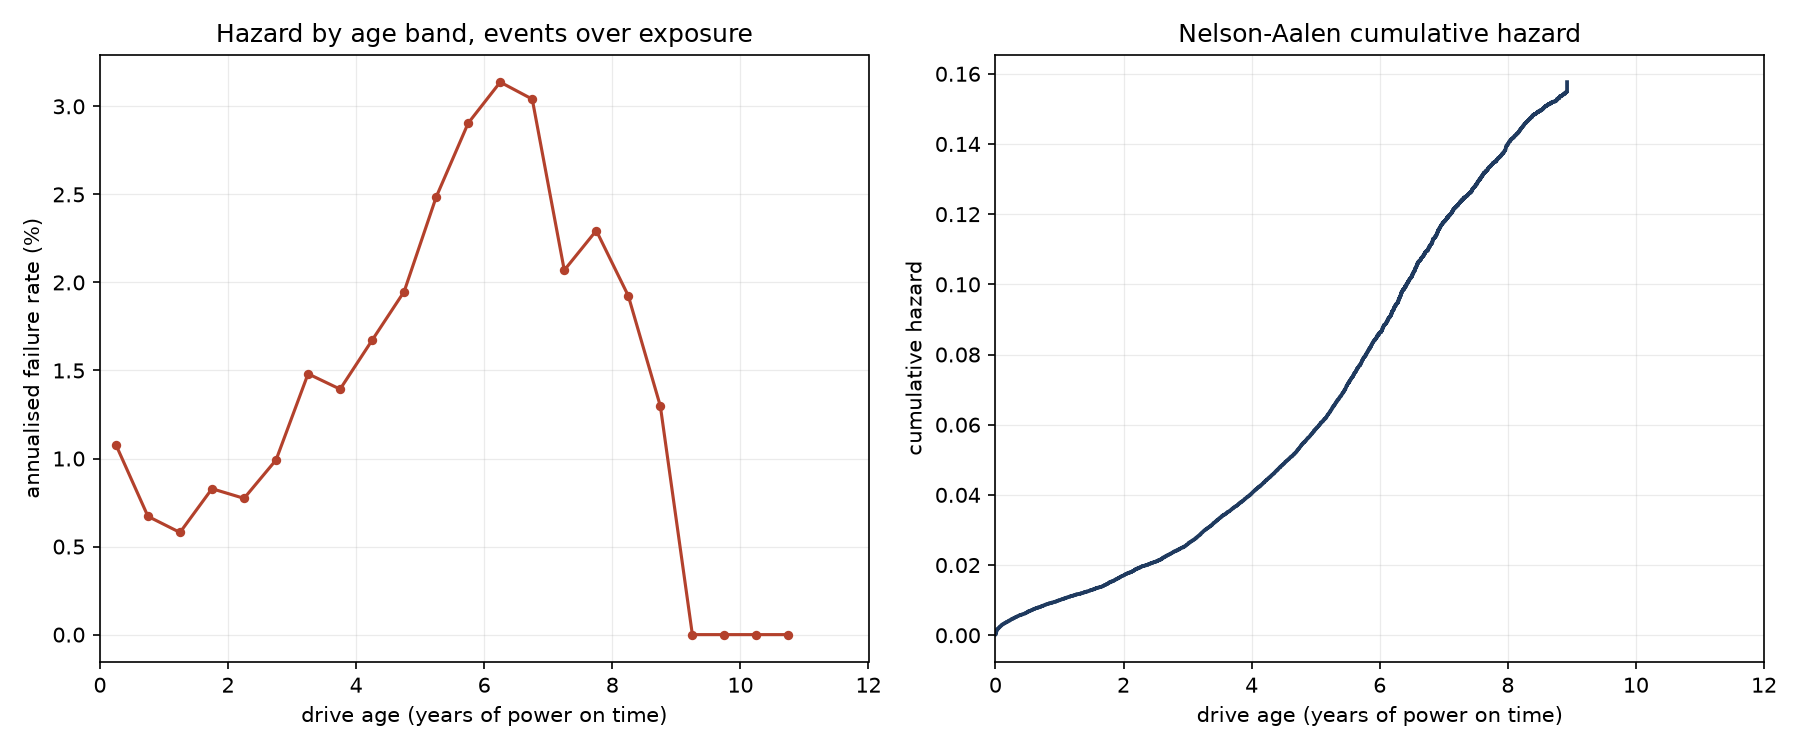
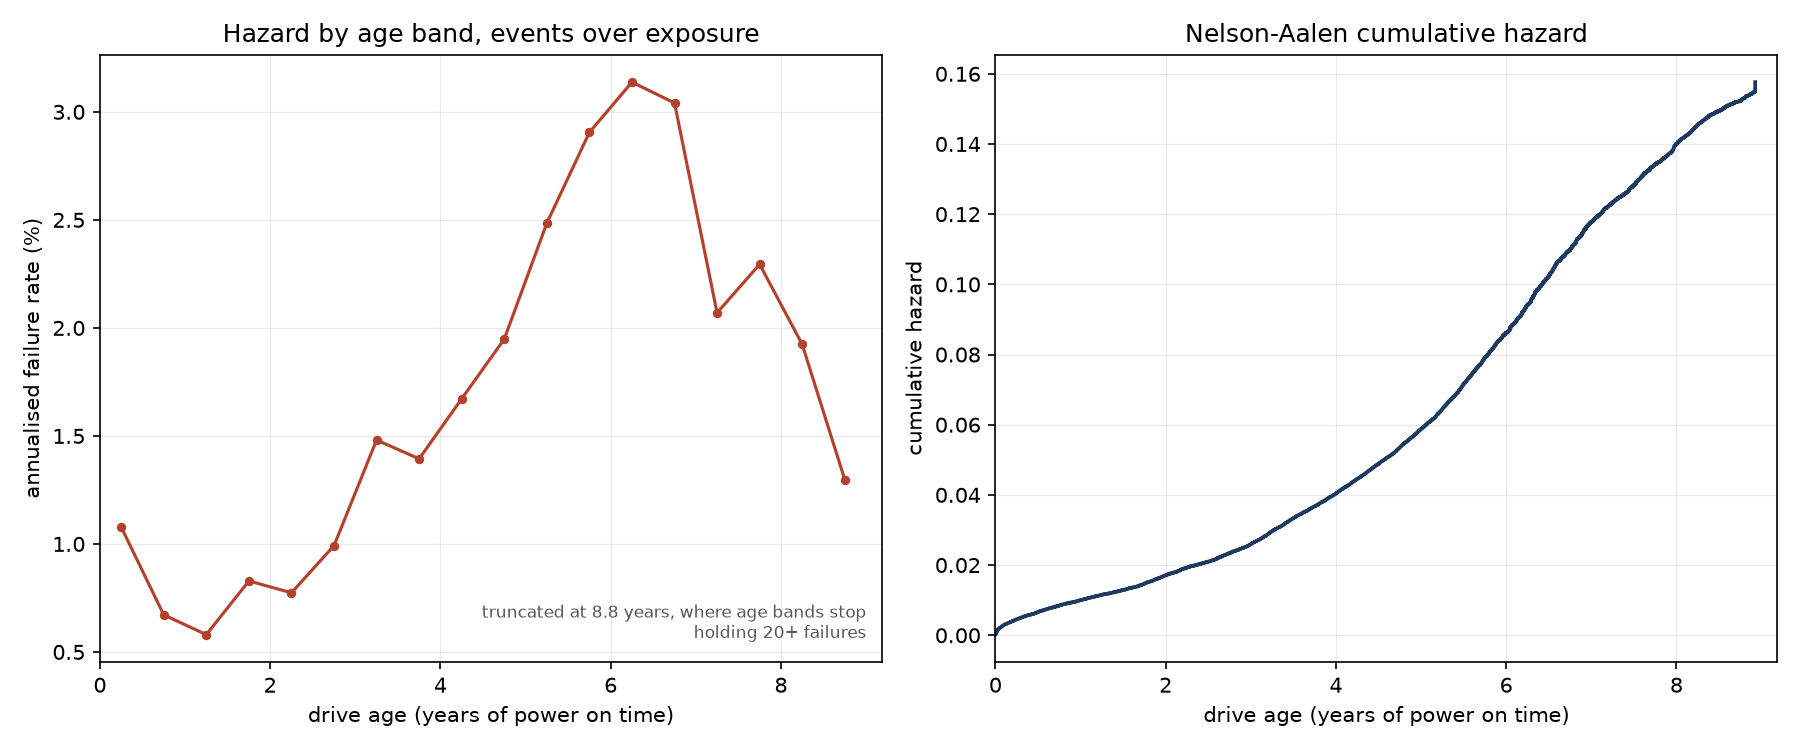
Figure pass: truncate hazard at thin risk sets, zoom validation, add ladder/calibration/RQ2 summaries, drop uninterpretable coefficient plots

diff --git a/scripts/s10_summary_figures.py b/scripts/s10_summary_figures.py
@@ -1,0 +1,192 @@
+"""Summary figures for the README.
+
+Three figures that no single modelling script owns, because each spans several of
+them. All are built from committed outputs rather than by refitting anything, so
+this runs in seconds and cannot silently disagree with the numbers already in
+`reports/`.
+
+  1. model ladder      discrimination across B0, B1, B2 and M2, the results-at-a-
+                       glance figure a reader wants before any detail
+  2. calibration       B1, B2 and M2 on identical rows. Calibration is a
+                       pre-committed constraint in DESIGN.md section 8, so the
+                       models that matter need to appear in it, not only the
+                       weakest two.
+  3. RQ2 decomposition where the Seagate-only gain comes from, which is the
+                       question B3 exists to answer
+
+Usage:
+
+    py scripts/s10_summary_figures.py --tables data/tables --reports reports --figures figures
+"""
+
+from __future__ import annotations
+
+import argparse
+import sys
+from pathlib import Path
+
+import matplotlib
+import numpy as np
+import pandas as pd
+
+matplotlib.use("Agg")
+import matplotlib.pyplot as plt  # noqa: E402
+
+sys.path.insert(0, str(Path(__file__).resolve().parent))
+import evaluation as ev  # noqa: E402
+
+NAVY = "#1F3A5F"
+RUST = "#B3412C"
+GREY = "#7A7A7A"
+
+
+def figure_ladder(reports: Path, figures: Path) -> None:
+    """Discrimination across the ladder, with the B3 arm shown separately."""
+    pooled = pd.read_csv(reports / "b1_metrics_pooled.csv")
+    b0 = float(pooled.loc[pooled["model"] == "B0 age only", "ipcw_auc"].iloc[0])
+    b0_lo = float(pooled.loc[pooled["model"] == "B0 age only", "auc_lo"].iloc[0])
+    b0_hi = float(pooled.loc[pooled["model"] == "B0 age only", "auc_hi"].iloc[0])
+    b1 = float(pooled.loc[pooled["model"] == "B1 model and age", "ipcw_auc"].iloc[0])
+    b1_lo = float(pooled.loc[pooled["model"] == "B1 model and age", "auc_lo"].iloc[0])
+    b1_hi = float(pooled.loc[pooled["model"] == "B1 model and age", "auc_hi"].iloc[0])
+
+    m2f = pd.read_csv(reports / "m2_metrics_by_fold.csv")
+    # Pooling by event count, since folds differ in size.
+    def pooled_auc(label):
+        sub = m2f[m2f["model"] == label]
+        return float(np.average(sub["ipcw_auc"], weights=sub["n_events"]))
+    b2, m2 = pooled_auc("B2 log-linear"), pooled_auc("M2 boosted trees")
+
+    labels = ["B0\nage only", "B1\n+ drive model", "B2\n+ SMART", "M2\n+ boosted trees"]
+    vals = [b0, b1, b2, m2]
+    errs = [[b0 - b0_lo, b1 - b1_lo, 0, 0], [b0_hi - b0, b1_hi - b1, 0, 0]]
+    colours = [GREY, GREY, NAVY, NAVY]
+
+    fig, ax = plt.subplots(figsize=(8.5, 5.4))
+    bars = ax.bar(labels, vals, color=colours, width=0.62)
+    ax.errorbar(range(4), vals, yerr=errs, fmt="none", ecolor="#333333",
+                capsize=4, lw=1.2)
+    for b, v in zip(bars, vals):
+        ax.text(b.get_x() + b.get_width() / 2, v + 0.006, f"{v:.3f}",
+                ha="center", fontsize=10.5, fontweight="bold")
+    ax.set_ylim(0.55, 0.93)
+    ax.set_ylabel("IPCW time-dependent AUC (0.5 would be chance)")
+    ax.set_title("Discrimination across the model ladder")
+    ax.grid(alpha=0.25, lw=0.6, axis="y")
+    fig.text(0.5, 0.015,
+             "the jump from B1 to B2 is SMART telemetry; everything after it is "
+             "functional form",
+             fontsize=8.5, color="#555555", ha="center")
+    fig.tight_layout(rect=(0, 0.035, 1, 1))
+    fig.savefig(figures / "summary_model_ladder.png", dpi=150)
+    plt.close(fig)
+    print(f"  model ladder: B0 {b0:.3f}, B1 {b1:.3f}, B2 {b2:.3f}, M2 {m2:.3f}")
+
+
+def figure_calibration(tables: Path, figures: Path) -> None:
+    """B1, B2 and M2 calibration on identical held-out rows."""
+    df = pd.read_parquet(tables / "predictions.parquet")
+    t = df["t_days"].to_numpy(float)
+    s = df["status"].to_numpy(int)
+
+    fig, ax = plt.subplots(figsize=(6.8, 6.4))
+    lim = 0.0
+    for label, col, colour, style in (("B1, drive model and age", "risk_b1", GREY, "-"),
+                                      ("B2, + SMART", "risk_b2", "#5B8FA8", "-"),
+                                      ("M2, + boosted trees", "risk_m2", NAVY, "-")):
+        c = ev.calibration_table(df[col].to_numpy(float), t, s)
+        ax.plot(c["mean_predicted"], c["observed_ipcw"], style, marker="o", ms=5,
+                lw=1.7, color=colour, label=label)
+        lim = max(lim, c["mean_predicted"].max(), c["observed_ipcw"].max())
+        spread = c["ratio_obs_pred"].max() - c["ratio_obs_pred"].min()
+        print(f"  {label}: decile spread {spread:.3f}")
+
+    lim *= 1.08
+    ax.plot([0, lim], [0, lim], color="#999999", lw=1.1, ls="--",
+            label="perfect calibration")
+    ax.set_xlim(0, lim)
+    ax.set_ylim(0, lim)
+    ax.set_xlabel("mean predicted 30 day risk")
+    ax.set_ylabel("observed 30 day risk (IPCW)")
+    ax.set_title("Calibration by predicted risk decile, pooled held-out quarters")
+    ax.grid(alpha=0.25, lw=0.6)
+    ax.legend(fontsize=9, frameon=False, loc="upper left")
+    ax.text(0.98, 0.03, "points below the diagonal mean the model over-predicts",
+            transform=ax.transAxes, fontsize=8.5, color="#555555", ha="right")
+    fig.tight_layout()
+    fig.savefig(figures / "summary_calibration.png", dpi=150)
+    plt.close(fig)
+
+
+def figure_rq2(reports: Path, figures: Path) -> None:
+    """Where the Seagate-only AUC gain comes from."""
+    p = pd.read_csv(reports / "b3_paired_comparisons.csv")
+    p = p[(p["level"] == "raw") & (p["metric"] == "ipcw_auc")]
+
+    order = ["RQ2: all five Seagate attributes", "attribute 187 alone",
+             "the other four beyond 187"]
+    nice = ["all five\nSeagate-only\nattributes", "attribute 187\nalone",
+            "the other four\nbeyond 187"]
+    vals, los, his = [], [], []
+    for o in order:
+        r = p[p["comparison"] == o].iloc[0]
+        vals.append(float(r["difference"]))
+        los.append(float(r["difference"] - r["lo"]))
+        his.append(float(r["hi"] - r["difference"]))
+
+    fig, ax = plt.subplots(figsize=(8, 5.2))
+    bars = ax.bar(nice, vals, color=[NAVY, "#5B8FA8", "#9CC3D5"], width=0.58)
+    ax.errorbar(range(3), vals, yerr=[los, his], fmt="none", ecolor="#333333",
+                capsize=5, lw=1.3)
+    for b, v in zip(bars, vals):
+        ax.text(b.get_x() + b.get_width() / 2, v + 0.0012, f"+{v:.4f}",
+                ha="center", fontsize=10.5, fontweight="bold")
+    ax.axhline(0, color="#333333", lw=1.0)
+    ax.set_ylabel("gain in IPCW AUC over the universal attributes")
+    ax.set_title("RQ2: what vendor-specific SMART telemetry is worth")
+    ax.grid(alpha=0.25, lw=0.6, axis="y")
+    share = 100 * vals[1] / vals[0] if vals[0] else float("nan")
+    ax.text(0.5, 0.93,
+            f"attribute 187 carries {share:.0f}% of the gain, but the other four are not "
+            f"negligible\nas expectation E3 predicted; both intervals exclude zero",
+            transform=ax.transAxes, fontsize=9, color="#555555", ha="center")
+    fig.tight_layout()
+    fig.savefig(figures / "summary_rq2_decomposition.png", dpi=150)
+    plt.close(fig)
+    print(f"  RQ2: total +{vals[0]:.4f}, 187 alone +{vals[1]:.4f} ({share:.0f}%), "
+          f"other four +{vals[2]:.4f}")
+
+
+def main() -> int:
+    ap = argparse.ArgumentParser(description=__doc__)
+    ap.add_argument("--tables", default="data/tables")
+    ap.add_argument("--reports", default="reports")
+    ap.add_argument("--figures", default="figures")
+    args = ap.parse_args()
+
+    tables, reports, figures = Path(args.tables), Path(args.reports), Path(args.figures)
+    figures.mkdir(parents=True, exist_ok=True)
+
+    needed = [reports / "b1_metrics_pooled.csv", reports / "m2_metrics_by_fold.csv",
+              reports / "b3_paired_comparisons.csv", tables / "predictions.parquet"]
+    missing = [p for p in needed if not p.exists()]
+    if missing:
+        print("missing inputs, run the earlier scripts first:")
+        for m in missing:
+            print(f"  {m}")
+        return 1
+
+    print("model ladder")
+    figure_ladder(reports, figures)
+    print("calibration")
+    figure_calibration(tables, figures)
+    print("RQ2 decomposition")
+    figure_rq2(reports, figures)
+
+    for f in sorted(figures.glob("summary_*.png")):
+        print(f"\nwrote {f}")
+    return 0
+
+
+if __name__ == "__main__":
+    raise SystemExit(main())

diff --git a/scripts/s3_b0_baseline.py b/scripts/s3_b0_baseline.py
@@ -239,21 +239,35 @@ def plot_survival_by_model(curves: dict[str, pd.DataFrame], overall: pd.DataFram
     plt.close(fig)
 
 
+MIN_BAND_EVENTS = 20
+
+
 def plot_hazard(bands: pd.DataFrame, km: pd.DataFrame, path: Path) -> None:
+    # Beyond the last age band holding a usable number of events the estimate is
+    # not thin, it is absent: the curve would sit at exactly zero for want of
+    # drives rather than for want of failures, which reads as a defect. Truncate
+    # instead and say where.
+    usable = bands[bands["events"] >= MIN_BAND_EVENTS]
+    cutoff = float(usable["age_years"].max()) if len(usable) else float(bands["age_years"].max())
+    b = bands[bands["age_years"] <= cutoff]
+
     fig, (ax1, ax2) = plt.subplots(1, 2, figsize=(12, 5))
 
-    ax1.plot(bands["age_years"], bands["afr_pct"], marker="o", ms=3.5, lw=1.5, color="#B3412C")
+    ax1.plot(b["age_years"], b["afr_pct"], marker="o", ms=3.5, lw=1.5, color="#B3412C")
     ax1.set_xlabel("drive age (years of power on time)")
     ax1.set_ylabel("annualised failure rate (%)")
     ax1.set_title("Hazard by age band, events over exposure")
-    ax1.set_xlim(0, 12)
+    ax1.set_xlim(0, cutoff * 1.05)
     ax1.grid(alpha=0.25, lw=0.6)
+    ax1.text(0.98, 0.04, f"truncated at {cutoff:.1f} years, where age bands stop\n"
+             f"holding {MIN_BAND_EVENTS}+ failures",
+             transform=ax1.transAxes, fontsize=8, color="#555555", ha="right")
 
     ax2.step(km["age_years"], km["cum_hazard"], where="post", lw=1.8, color="#1F3A5F")
     ax2.set_xlabel("drive age (years of power on time)")
     ax2.set_ylabel("cumulative hazard")
     ax2.set_title("Nelson-Aalen cumulative hazard")
-    ax2.set_xlim(0, 12)
+    ax2.set_xlim(0, cutoff * 1.05)
     ax2.grid(alpha=0.25, lw=0.6)
 
     fig.tight_layout()
@@ -276,8 +290,11 @@ def plot_incident_validation(full: pd.DataFrame, incident: pd.DataFrame, path: P
     ax.set_ylabel("surviving fraction")
     ax.set_title("E5 validation: delayed entry against an untruncated cohort")
     ax.set_xlim(0, 3)
+    lo = min(full.loc[full["age_years"] <= 3, "survival"].min(),
+             incident["survival"].min() if not incident.empty else 1.0)
+    ax.set_ylim(lo - 0.004, 1.001)     # the whole story sits in the top 2%
     ax.grid(alpha=0.25, lw=0.6)
-    ax.legend(fontsize=9, frameon=False)
+    ax.legend(fontsize=9, frameon=False, loc="lower left")
     fig.tight_layout()
     fig.savefig(path, dpi=150)
     plt.close(fig)

diff --git a/scripts/s9_decision_layer.py b/scripts/s9_decision_layer.py
@@ -286,9 +286,6 @@ def main() -> int:
     ax.set_title("Risk-based replacement: where the threshold pays, by cost ratio")
     ax.grid(alpha=0.25, lw=0.6)
     ax.legend(fontsize=9, frameon=False, loc="upper right")
-    ax.text(0.01, 0.03, "below the dashed line the policy is cheaper than running to failure\n"
-            "markers show each curve's optimum; y-axis clipped at 2.0",
-            transform=ax.transAxes, fontsize=8, color="#555555")
     fig.tight_layout()
     fig.savefig(figures / "s9_cost_rate_vs_threshold.png", dpi=150)
     plt.close(fig)
